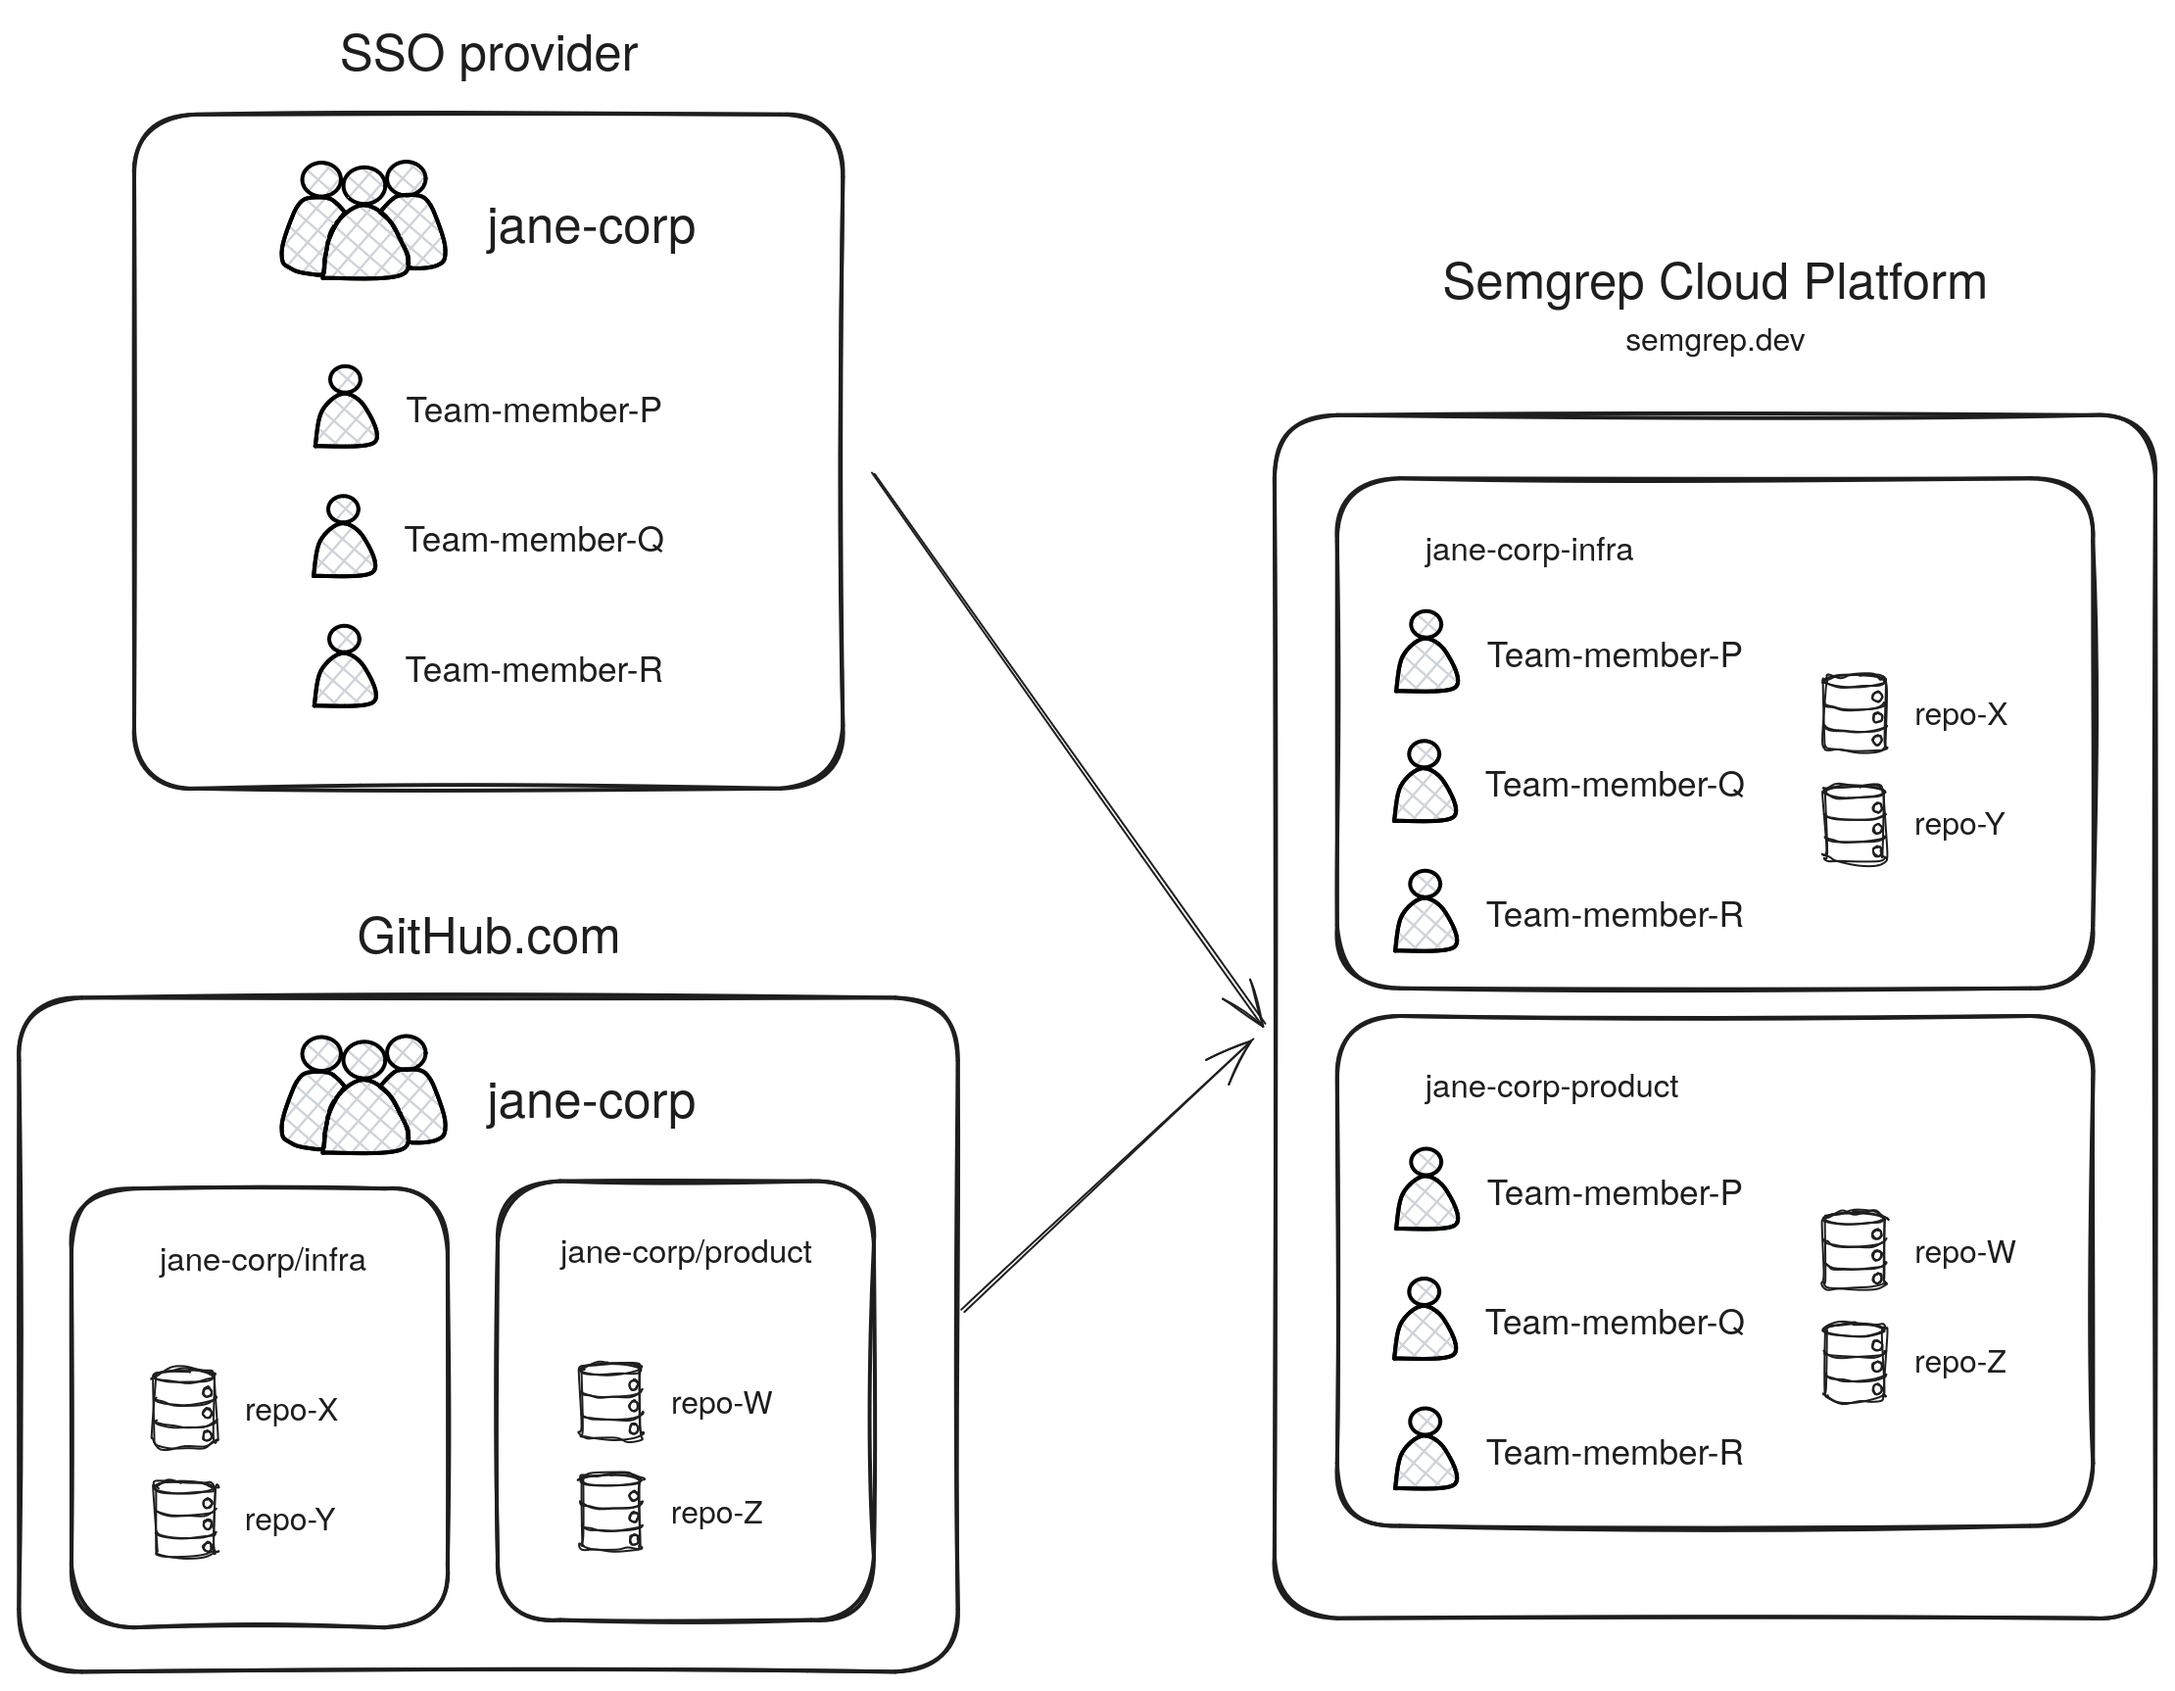
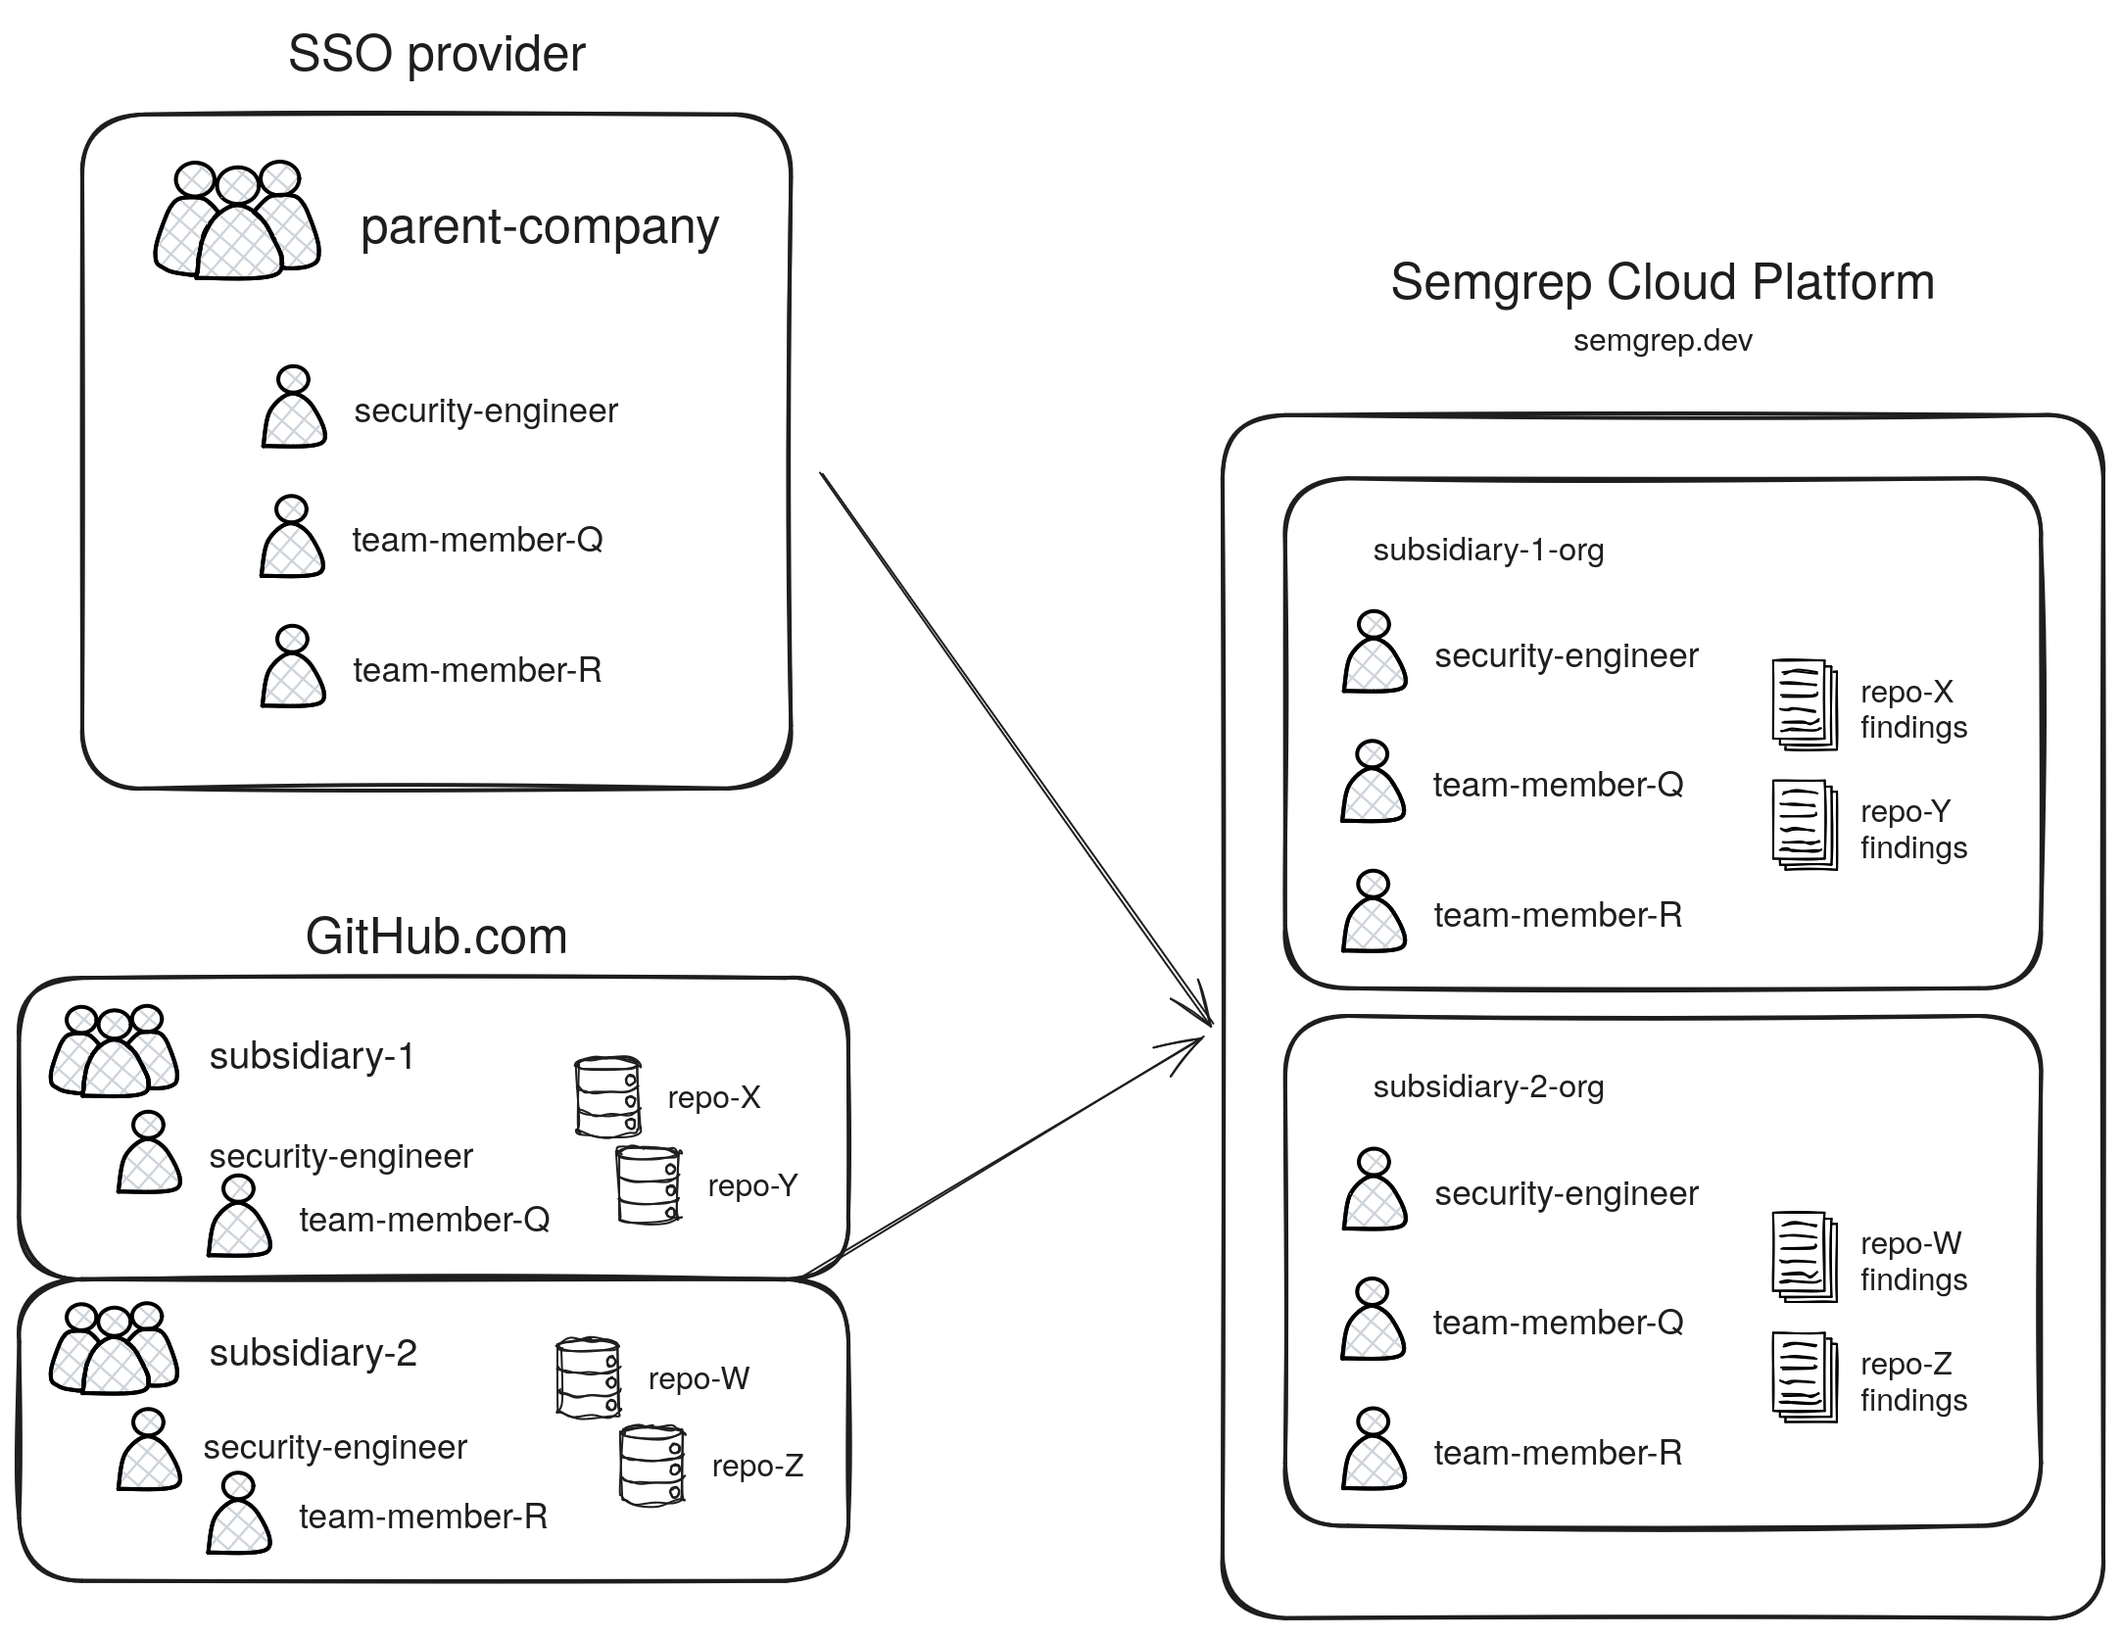
update org sections

diff --git a/docs/deployment/create-account-and-orgs.md b/docs/deployment/create-account-and-orgs.md
@@ -91,41 +91,42 @@ Once you have connected to your SSO or SCM, any team member from your GitHub, Gi
 
 You can create multiple orgs to group related resources together:
 
-1. In Semgrep Cloud Platform, click the drop-down box with your organization name.
+1. In Semgrep Cloud Platform, click the drop-down box with your organization name, located at the sidebar.
 2. Click **Add org**.
 3. Click **Create an organization**.
 4. In the popup, provide an **Organization display name**.
 
-### Organization setup examples tk
+### Delete an existing org
 
-#### Single-user organization in GitLab
+Reach out to [<i class="fa-regular fa-envelope"></i> support@semgrep.com](mailto:support@semgrep.com) to delete an organization.
+ 
+## Organization setup examples tk
+
+### Single-user organization in GitLab
 
 - In this example, a single GitLab user, `john-doe`, has a Semgrep org account with the same name.
 - He has set up his CI workflow to scan `repo-A` and `repo-B` in his GitLab account. The CI job sends scan results (findings) to Semgrep Cloud Platform.
 
 ![DESCRIPTION](/img/personal-org.png#md-noborder)
 
-
-#### Company with org departments in GitHub
+### Company with org departments in GitHub
 
 In this example, a `parent-company` has multiple `subsidiaries`:
 
 - Each `subsidiary` is its own GitHub organization. 
-- The security team is responsible for all `subsidiaries` in `parent-company-.
-- The ParentCompany enforces SSO for all of its Subsidiaries.
+- The security team is responsible for all `subsidiaries` in `parent-company`. The security team is a part of all `subsidiaries`.
+- The `parent-company` enforces SSO for all of its `subsidiaries`.
 - Here, membership and repository scanning are separately managed by two different services.
 
 The Semgrep deployment could look like this:
 
 - Each GitHub org has a corresponding Semgrep org.
 - The security team has configured SSO for each Semgrep org.
-    - This means that `team-member-P` can sign into `subsidiary-1-org`. The resources they are able to view or change can be constrained through roles.
+    - This means that `team-member-P` can also access `subsidiary-1-org`. The resources they are able to view or change can be constrained through **roles**.
 
 ![DESCRIPTION](/img/multiple-orgs.png)
 
-
-
-### Join an existing org
+## Join an existing org
 
 This section is for team members who have been invited to join a Semgrep organization.
 
@@ -152,6 +153,8 @@ To join an existing org in GitHub or GitLab:
 To join an existing org through your SSO provider:
 
 1. Sign in to [<i class="fas fa-external-link fa-xs"></i> Semgrep Cloud Platform](https://semgrep.dev/login) with the account credentials specified by your admin.
+2. You are automatically signed in to all organizations that your admin has set up for you.
+
 
 </TabItem>
 
